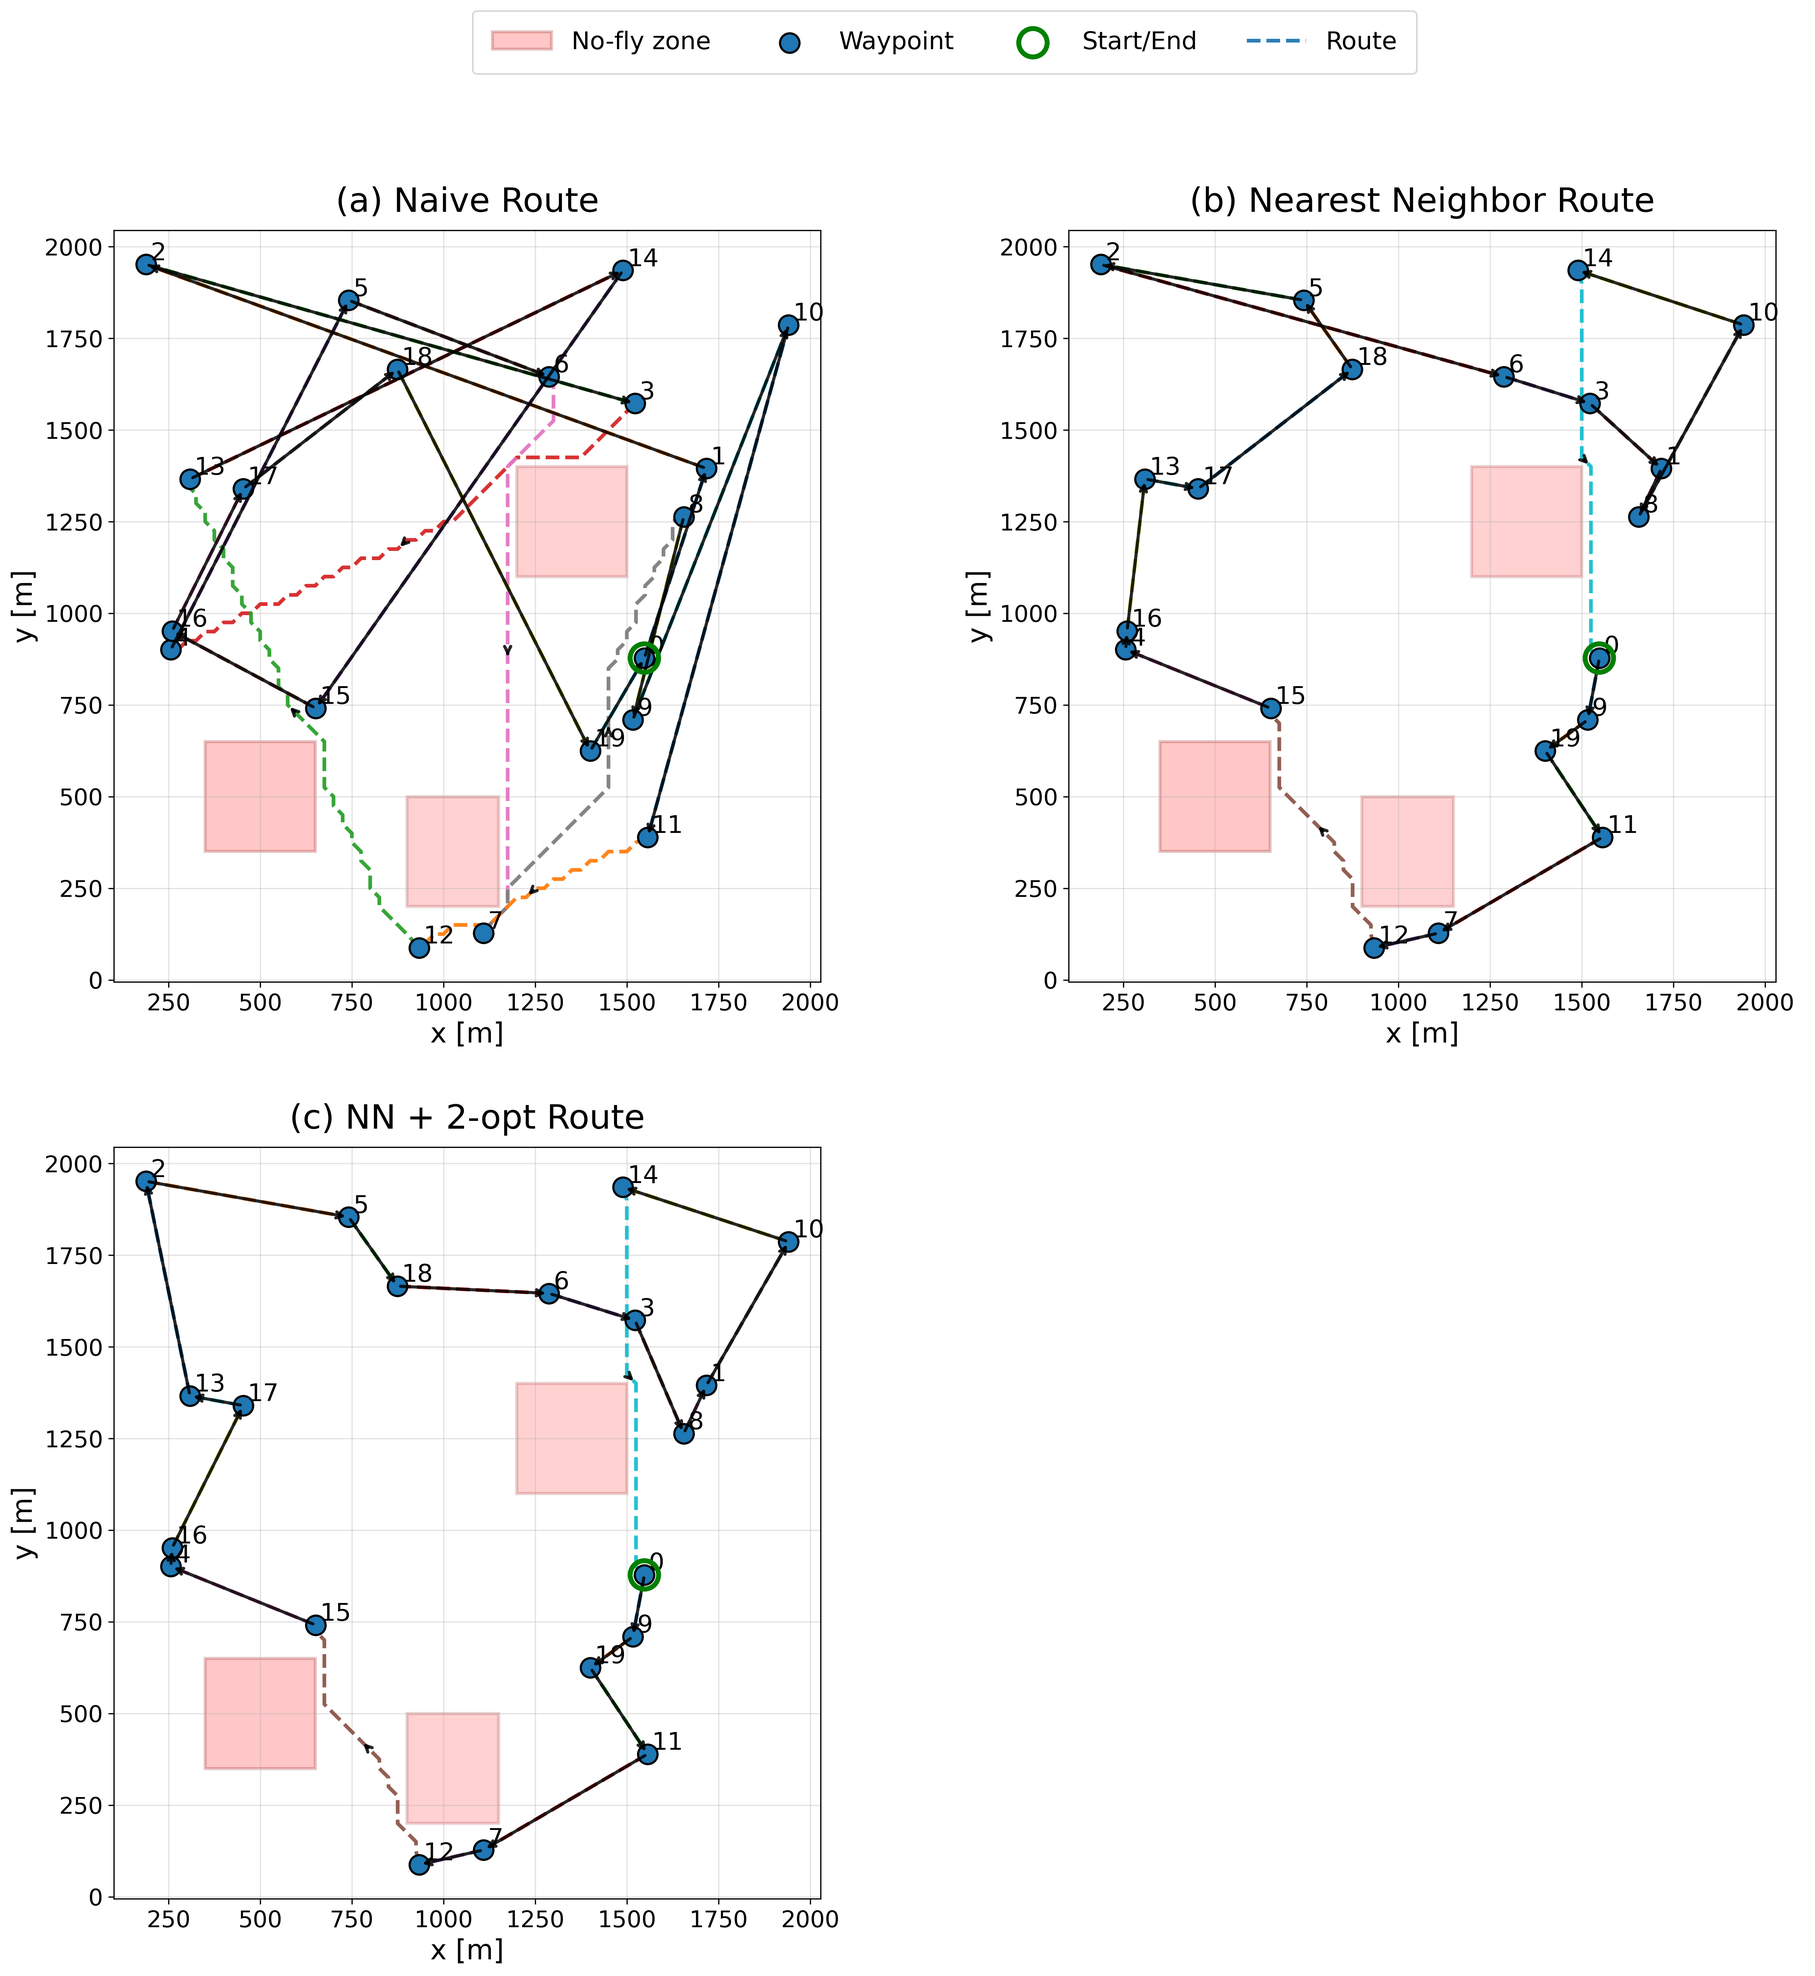
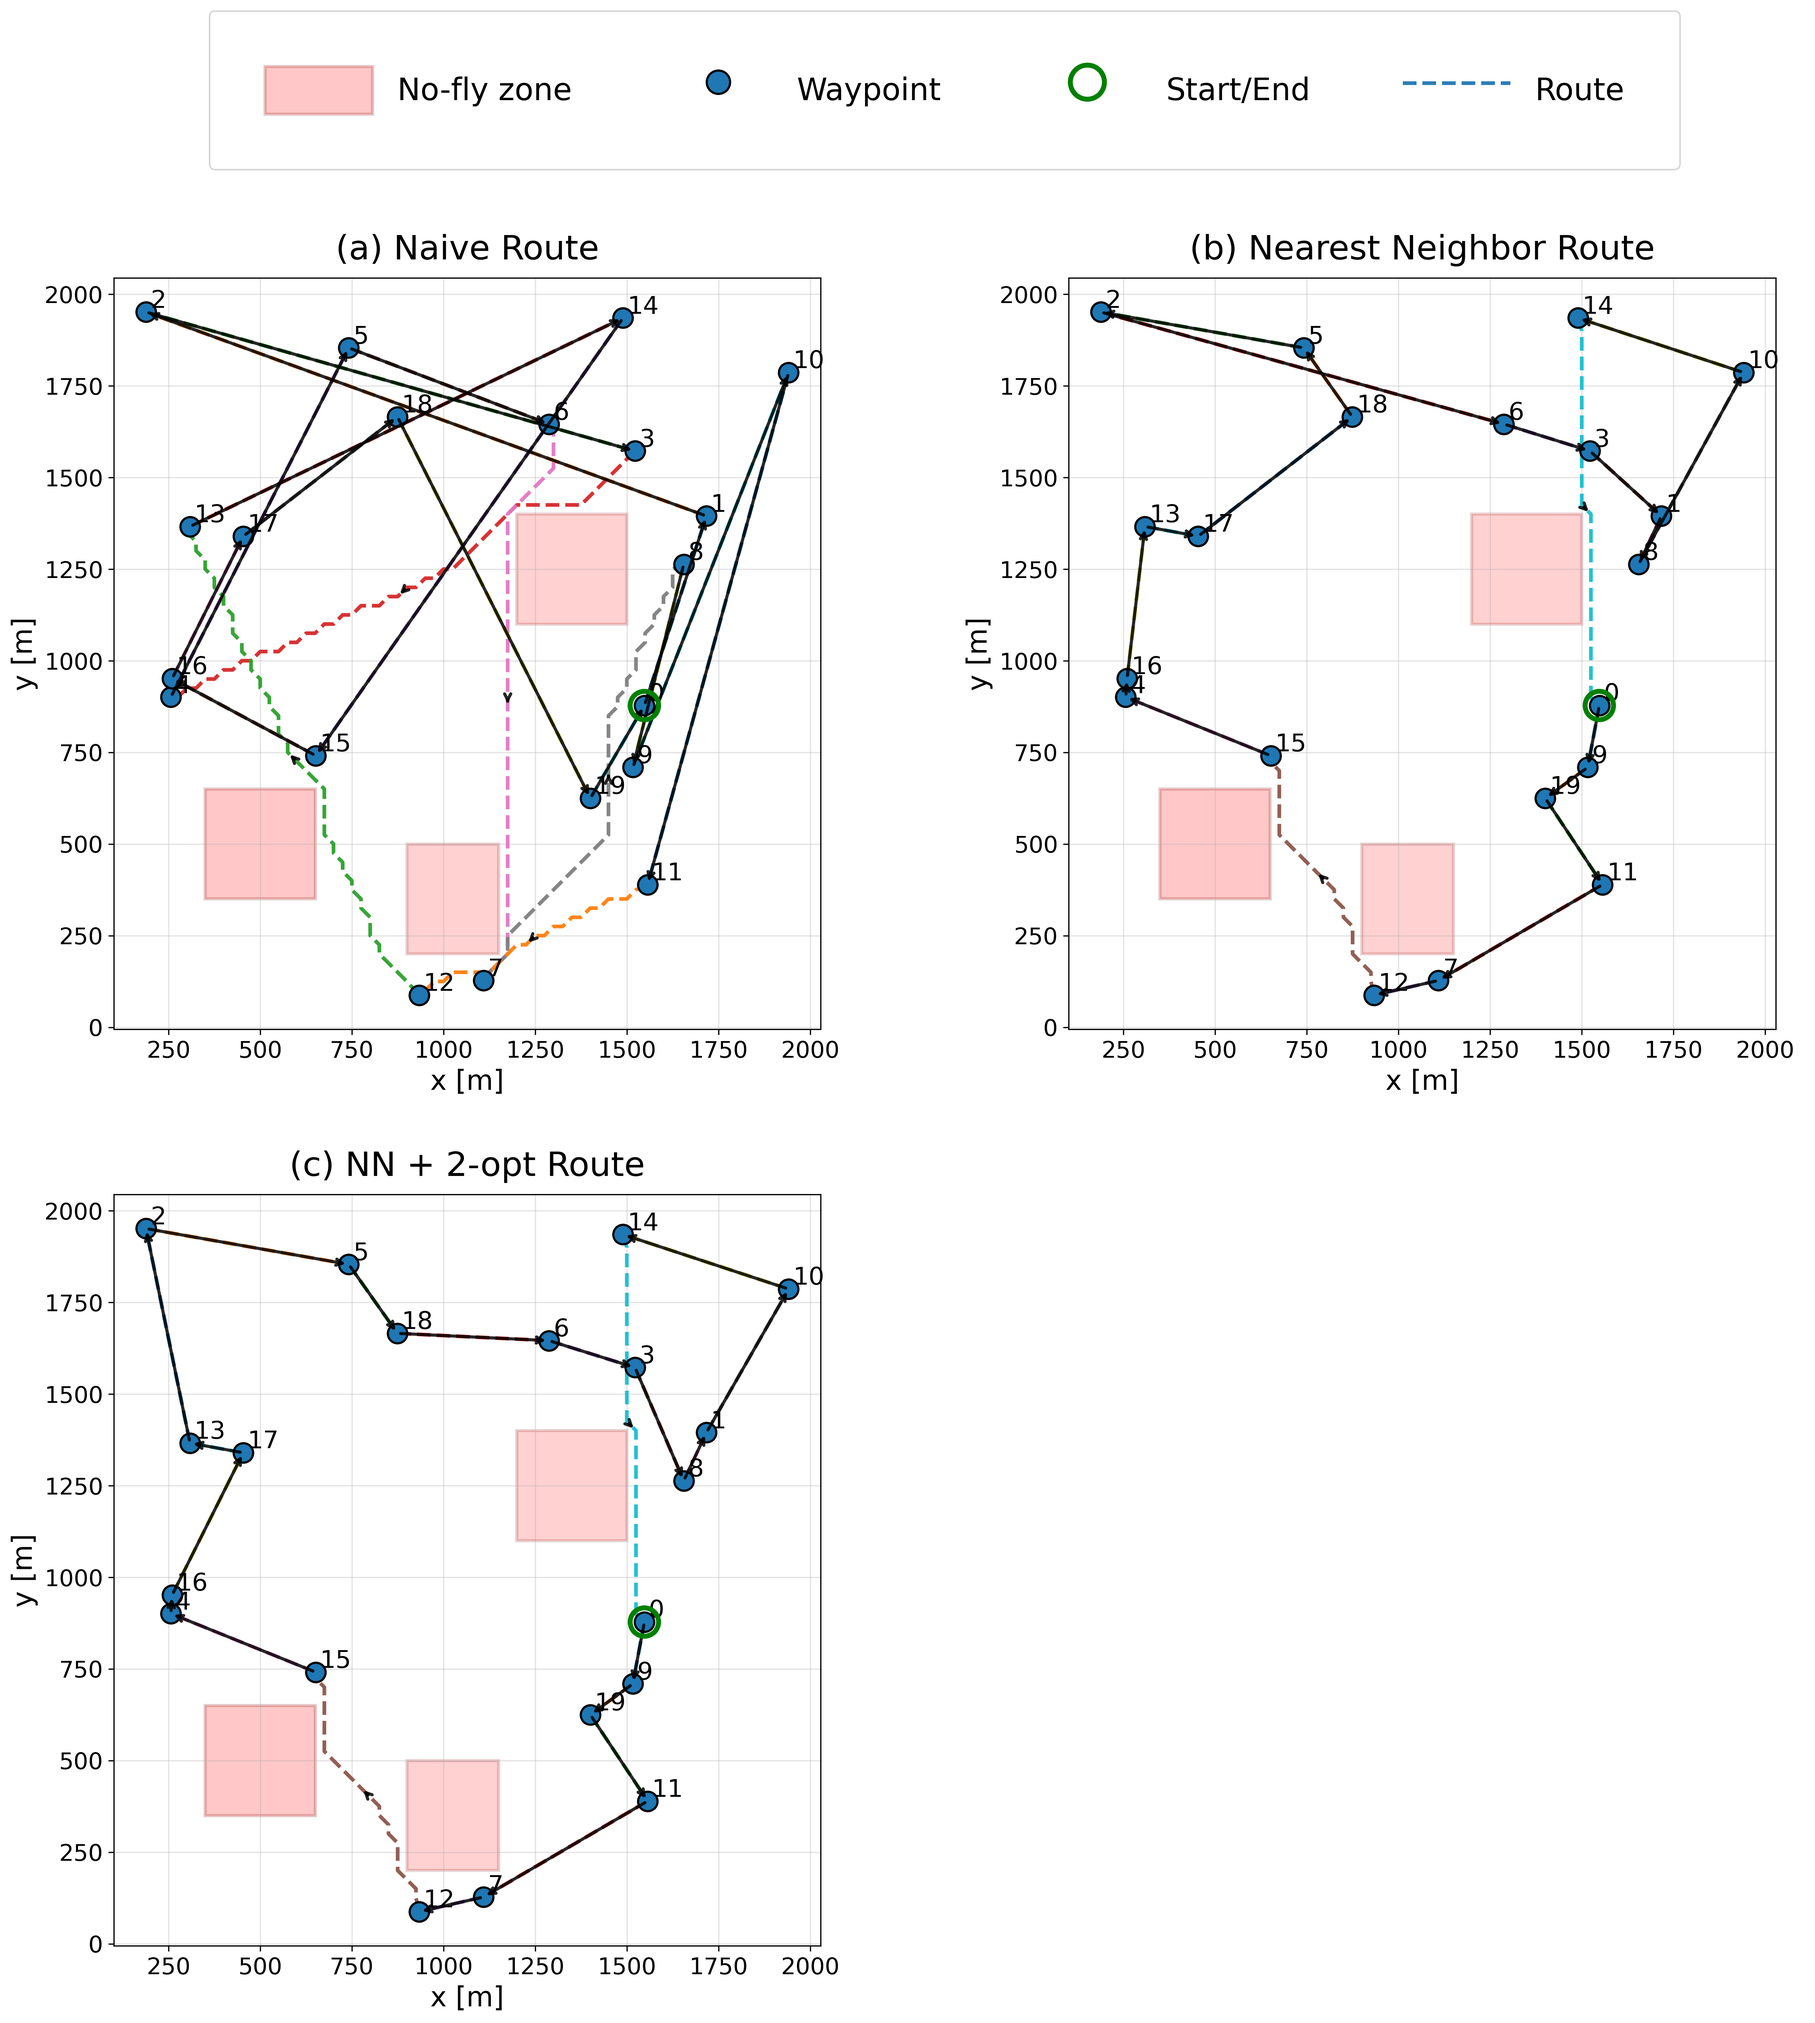
update pic

diff --git a/plotting.py b/plotting.py
@@ -147,7 +147,7 @@ class Visualizer:
         PLOTS_DIR.mkdir(parents=True, exist_ok=True)
         fig.savefig(PLOTS_DIR / "energy_curve.png", dpi=250, bbox_inches="tight")
         plt.close(fig)
-        
+
     def plot_routes_three(
         self,
         waypoints: np.ndarray,
@@ -287,13 +287,18 @@ class Visualizer:
             loc="center",
             bbox_to_anchor=(0.5, 0.5),
             ncol=4,
-            fontsize=16,
-            frameon=True,
-            columnspacing=2.0,
-            handlelength=2.4,
-            borderpad=0.8,
-        )
 
+            fontsize=20,          # 🔥 bigger text (this drives overall size)
+            markerscale=1.2,      # keep symbols normal-ish
+
+            handlelength=3.5,
+            handleheight=2.0,
+            labelspacing=1.5,
+            borderpad=1.8,
+            columnspacing=3.0,
+
+            frameon=True,
+        )
         PLOTS_DIR.mkdir(parents=True, exist_ok=True)
         fig.savefig(PLOTS_DIR / filename, dpi=300, bbox_inches="tight")
         plt.close(fig)
